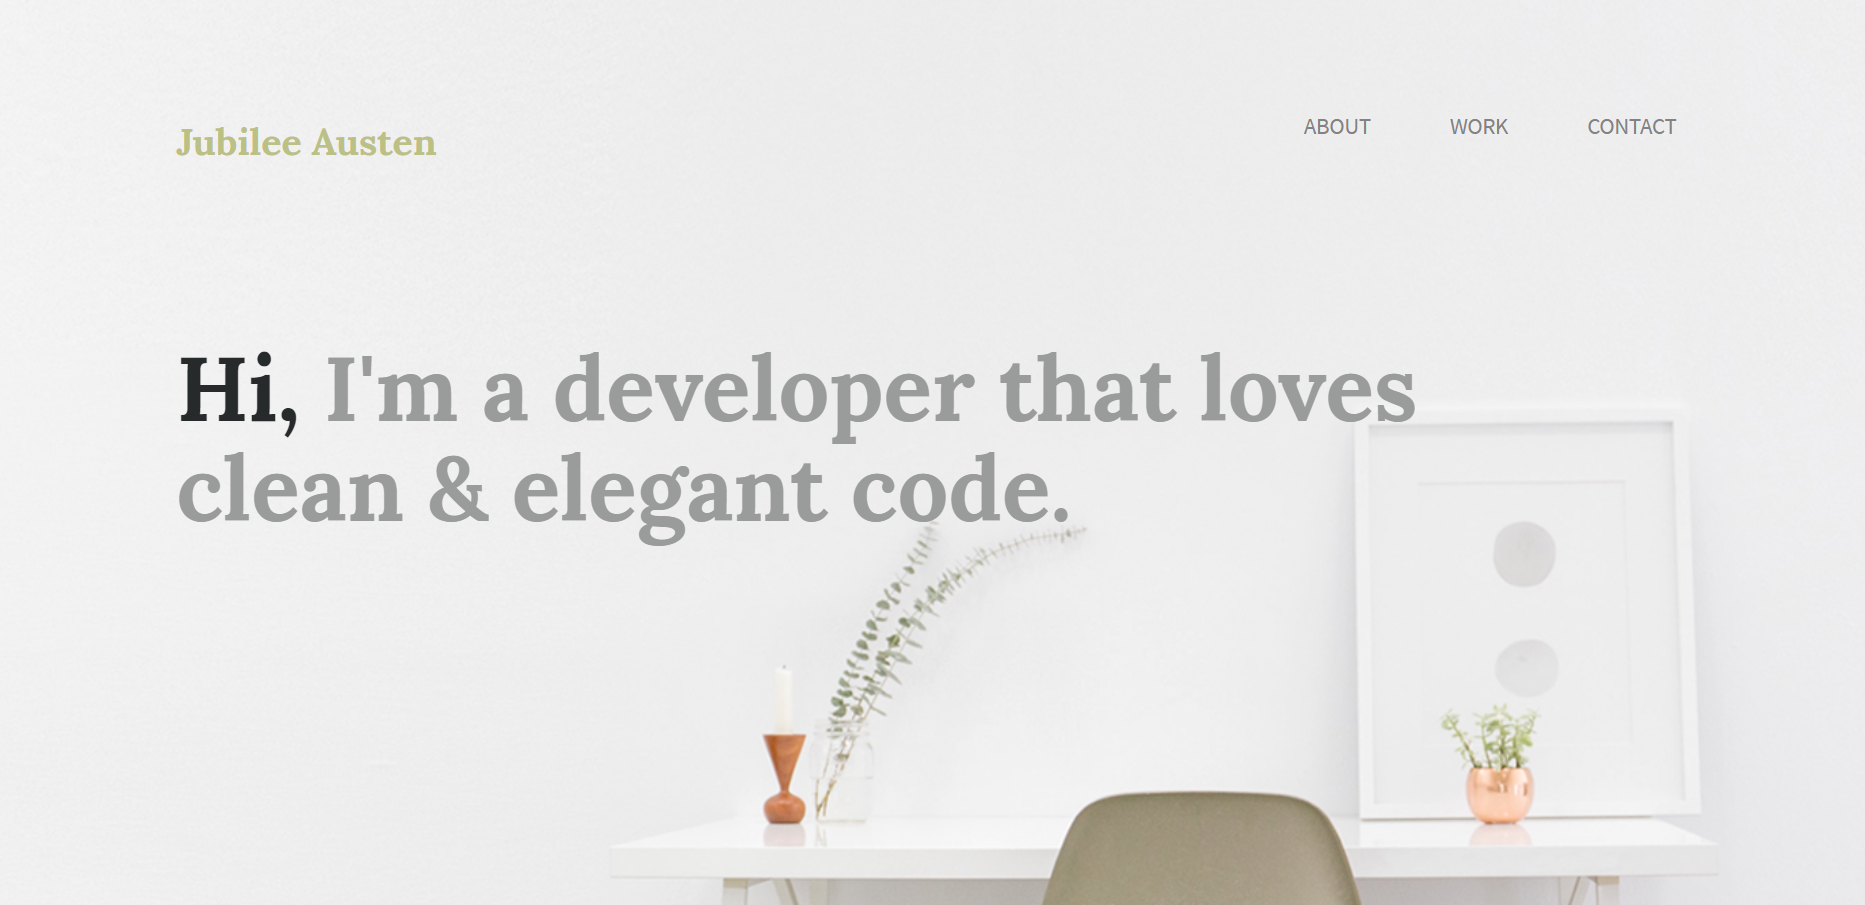
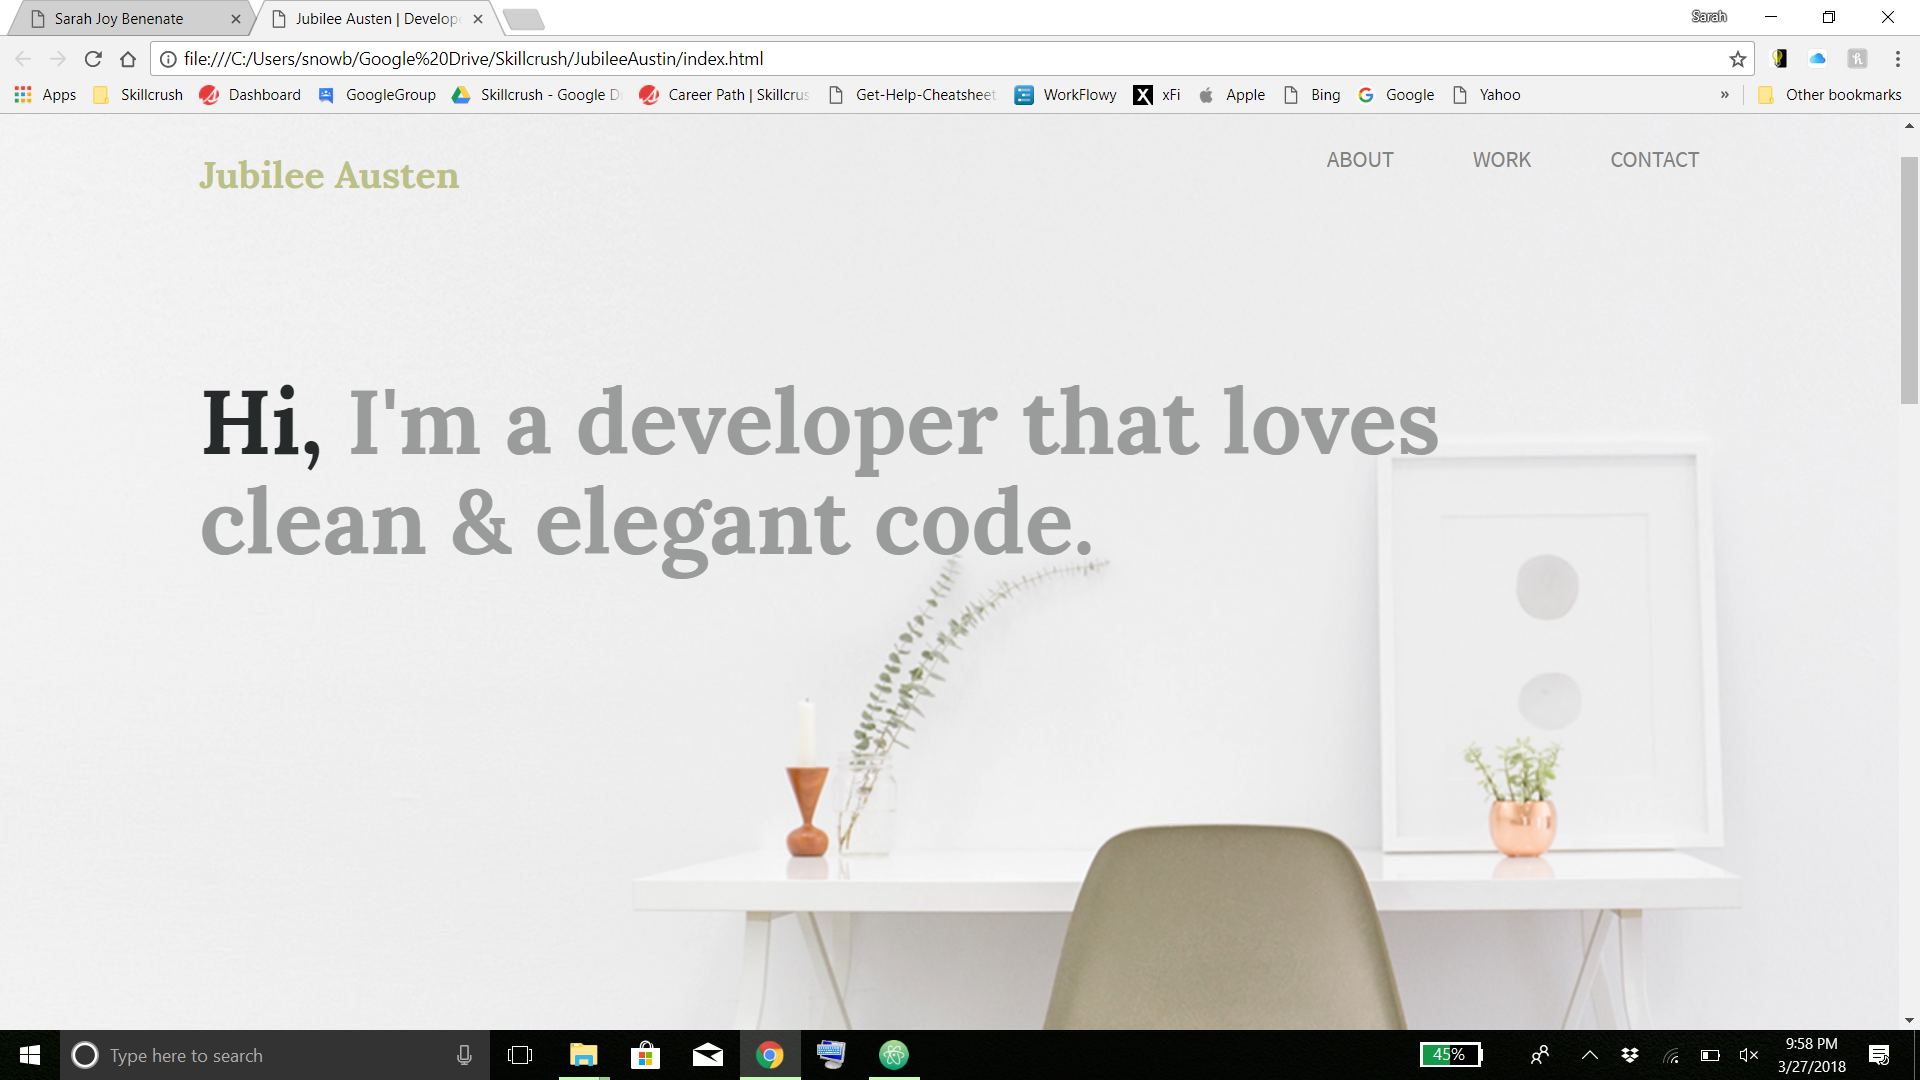
basic functionality done

diff --git a/index.html b/index.html
@@ -14,31 +14,46 @@
 
 
     <body>
-
-      <header>
-        <!-- photo creditBadge -->
-        <a style="background-color:black;color:white;text-decoration:none;padding:4px 6px;font-family:-apple-system, BlinkMacSystemFont, &quot;San Francisco&quot;, &quot;Helvetica Neue&quot;, Helvetica, Ubuntu, Roboto, Noto, &quot;Segoe UI&quot;, Arial, sans-serif;font-size:12px;font-weight:bold;line-height:1.2;display:inline-block;border-radius:3px;" href="https://unsplash.com/@sencerbugrahan?utm_medium=referral&amp;utm_campaign=photographer-credit&amp;utm_content=creditBadge" target="_blank" rel="noopener noreferrer" title="Download free do whatever you want high-resolution photos from Sencer Yılmaz"><span style="display:inline-block;padding:2px 3px;"><svg xmlns="http://www.w3.org/2000/svg" style="height:12px;width:auto;position:relative;vertical-align:middle;top:-1px;fill:white;" viewBox="0 0 32 32"><title>unsplash-logo</title><path d="M20.8 18.1c0 2.7-2.2 4.8-4.8 4.8s-4.8-2.1-4.8-4.8c0-2.7 2.2-4.8 4.8-4.8 2.7.1 4.8 2.2 4.8 4.8zm11.2-7.4v14.9c0 2.3-1.9 4.3-4.3 4.3h-23.4c-2.4 0-4.3-1.9-4.3-4.3v-15c0-2.3 1.9-4.3 4.3-4.3h3.7l.8-2.3c.4-1.1 1.7-2 2.9-2h8.6c1.2 0 2.5.9 2.9 2l.8 2.4h3.7c2.4 0 4.3 1.9 4.3 4.3zm-8.6 7.5c0-4.1-3.3-7.5-7.5-7.5-4.1 0-7.5 3.4-7.5 7.5s3.3 7.5 7.5 7.5c4.2-.1 7.5-3.4 7.5-7.5z"></path></svg></span><span style="display:inline-block;padding:2px 3px;">Sencer Yılmaz</span></a>
-
+      <header id="home">
         <div class="full-width">
-          <h1>Sarah Benenate</h1>
-          <p>Hello and Welcome to my portfolio site! I’m Sarah Joy Benenate, a techy person from Portland, Oregon. I’ve dabbled in agriculture, electrical engineering, art, and web-development.</p>
+        <!-- photo creditBadge -->
+        <!--  Photo by Anastasia Taioglou on Unsplash -->
+        <!-- <a style="background-color:black;color:white;text-decoration:none;padding:4px 6px;font-family:-apple-system, BlinkMacSystemFont, &quot;San Francisco&quot;, &quot;Helvetica Neue&quot;, Helvetica, Ubuntu, Roboto, Noto, &quot;Segoe UI&quot;, Arial, sans-serif;font-size:12px;font-weight:bold;line-height:1.2;display:inline-block;border-radius:3px;" href="https://unsplash.com/@thenata?utm_medium=referral&amp;utm_campaign=photographer-credit&amp;utm_content=creditBadge" target="_blank" rel="noopener noreferrer" title="Download free do whatever you want high-resolution photos from Anastasia Taioglou"><span style="display:inline-block;padding:2px 3px;"><svg xmlns="http://www.w3.org/2000/svg" style="height:12px;width:auto;position:relative;vertical-align:middle;top:-1px;fill:white;" viewBox="0 0 32 32"><title>unsplash-logo</title><path d="M20.8 18.1c0 2.7-2.2 4.8-4.8 4.8s-4.8-2.1-4.8-4.8c0-2.7 2.2-4.8 4.8-4.8 2.7.1 4.8 2.2 4.8 4.8zm11.2-7.4v14.9c0 2.3-1.9 4.3-4.3 4.3h-23.4c-2.4 0-4.3-1.9-4.3-4.3v-15c0-2.3 1.9-4.3 4.3-4.3h3.7l.8-2.3c.4-1.1 1.7-2 2.9-2h8.6c1.2 0 2.5.9 2.9 2l.8 2.4h3.7c2.4 0 4.3 1.9 4.3 4.3zm-8.6 7.5c0-4.1-3.3-7.5-7.5-7.5-4.1 0-7.5 3.4-7.5 7.5s3.3 7.5 7.5 7.5c4.2-.1 7.5-3.4 7.5-7.5z"></path></svg></span><span style="display:inline-block;padding:2px 3px;">Anastasia Taioglou</span></a>-->
+
+        <nav>
+          <ul>
+            <li><a href="#home">Home</a></li>
+            <li><a href="#about">About</a></li>
+            <li><a href="#skills">Skills</a></li>
+            <li><a href="#work">Work</a></li>
+            <li><a href="#contact">Contact</a></li>
+          </ul>
+        </nav>
+        <div style="clear: both;"></div>
+
+        <p>Hello, I'm <span id="name">Sarah Benenate</span>, a techy person in Portland, Oregon. I have dabbled in agriculture, electrical engineering, art, and web-development.</p>
         </div>
+        <div class="spacer"></div>
       </header>
 
       <main>
         <section id="about">
+          <div class="full-width">
           <h2>About Me</h2>
           <div class="half-width">
             <p>I live in Portland, Oregon with my husband and our cat. Our 288 sq ft house is surrounded by gardens.</p>
             <p>I started my journey in tech with an Elecrical Engineering degree that lead into jobs in security and consumer electronics.</p>
-            <p>In my free time I can be found gardening, riding my bike with my husband’s cycling team, and petting our cat.</p>
+            <p>In my free time I can be found gardening, riding my bike with my husband's cycling team, and petting our cat.</p>
           </div>
           <div class="half-width">
-            <img src="./img/profile-pic.jpg" alt="SarahJoyBenenate" />
+            <img id="profile-pic" src="./img/profile-pic.jpg" alt="SarahJoyBenenate" />
           </div>
+        </div>
+        <div class="spacer"></div>
         </section>
 
         <section id="skills">
+          <div class="full-width">
           <h2>My Skills</h2>
           <div class="third-width">
             <img src="./img/noun_87127_cc.png" alt="fish icon" />
@@ -55,15 +70,14 @@
             <h3>Matlab</h3>
             <p>No data array too large to get a proper result.</p>
           </div>
+
+        </div>
+        <div class="spacer"></div>
         </section>
 
         <section id="work">
+          <div class="full-width">
           <h2>Featured Work</h2>
-          <div class="third-width">
-            <img src="./img/kidgloves-design.png" alt="full site image" />
-            <h3>Small Business Site</h3>
-            <p>Design and implimentation for a business start-up with a brilliant idea.</p>
-          </div>
           <div class="third-width">
             <img src="./img/jubilee-austin-site.png" alt="static site image" />
             <h3>Static Site Building</h3>
@@ -74,9 +88,17 @@
             <h3>Portfolio Site Design</h3>
             <p>Visual design exercise for a concenptual personal portfolio site.</p>
           </div>
+          <div class="third-width">
+            <img src="./img/kidgloves-design.png" alt="full site image" />
+            <h3>Small Business Site</h3>
+            <p>Design and implimentation for a business start-up with a brilliant idea.</p>
+          </div>
+          </div>
+          <div class="spacer"></div>
         </section>
 
-        <section id="contact">
+        <footer id="contact">
+          <div class="full-width">
           <h2>Contact Me</h2>
           <div class="half-width">
             <h3>Sarah Benenate</h3>
@@ -90,9 +112,10 @@
               <li><a href="https://www.instagram.com/sjbenenate/" target="_blank"><img src="./img/instagram.svg" alt="Instagram" /></a></li>
             </ul>
           </div>
-        </section>
+        </div>
+        <div class="spacer"></div>
+        </footer>
 
       </main>
-
     </body>
 </html>

diff --git a/css/main.css b/css/main.css
@@ -1,0 +1,170 @@
+/******* BASE STYLES *******/
+body {
+  font-family: 'Arbutus Slab';
+}
+
+body h1 {
+  font-family: 'Macondo Swash Caps';
+  font-size: 72;
+}
+
+body h2 {
+  font-family: 'Macondo Swash Caps';
+  font-size: 36;
+
+  padding-left: 50px;
+  padding-top: 30px;
+}
+
+body h3 {
+  font-family: 'baloo da';
+  font-size: 18;
+}
+
+body p {
+  font-family: 'open sans';
+  font-size: 16;
+}
+
+.full-width {
+  width: 1200px;
+  margin: 0 auto!important;
+  float: none!important;
+  padding-top: 20px;
+}
+
+.half-width {
+  width: 600px;
+  float: left;
+}
+
+.third-width {
+  width: 400px;
+  float: left;
+}
+
+.spacer {
+  clear: both;
+  /*border: 5px solid black;*/
+  height: 50px;
+}
+
+
+/******* NAV *******/
+nav {
+  float: right;
+  padding: auto 40px;
+}
+
+nav ul li {
+  display: inline-block;
+}
+
+nav ul li a {
+  text-transform: uppercase;
+  text-decoration: none;
+  font-size: 18px;
+  color: #99a592;
+  padding-left: 60px;
+}
+
+/******* HEADER *******/
+
+#home {
+  background: url("../img/ocean-waves.jpg") no-repeat;
+  background-size: cover;
+  height: 550px;
+}
+
+#home #name {
+  font-family: 'Macondo Swash Caps';
+  font-size: 70px;
+}
+
+#home h1, p {
+  padding: 0 50px;
+}
+
+#home p {
+  font-size: 36px;
+}
+
+
+
+/******* ABOUT *******/
+#about {
+    background-color: #f9feed;
+}
+
+
+#profile-pic {
+  width: 300px;
+  margin-left: 150px;
+}
+
+#about p {
+  padding: 0 50px;
+}
+
+#about full-width {
+  padding: 50px 0;
+}
+
+
+/******* SKILLS *******/
+#skills {
+  background: #d6e7cc;
+}
+
+#skills img {
+  width: 70px;
+}
+
+#skills .third-width {
+  text-align: center;
+}
+
+
+
+/******* WORK *******/
+#work {
+  background-color: #f9feed;
+}
+
+#work img {
+  width: 300px;
+}
+
+#work .third-width {
+  text-align: center;
+}
+
+
+/******* CONTACT *******/
+#contact  {
+  background-color: #99a592;
+}
+
+#contact p {
+  text-align: center;
+}
+
+#contact h2, h3 {
+  text-align: center;
+
+}
+
+
+#contact ul {
+  list-style: none;
+  float: right;
+}
+
+#contact ul li {
+  display: inline-block;
+}
+
+#contact ul img {
+  padding-right: 60px;
+  width: 50px;
+}
